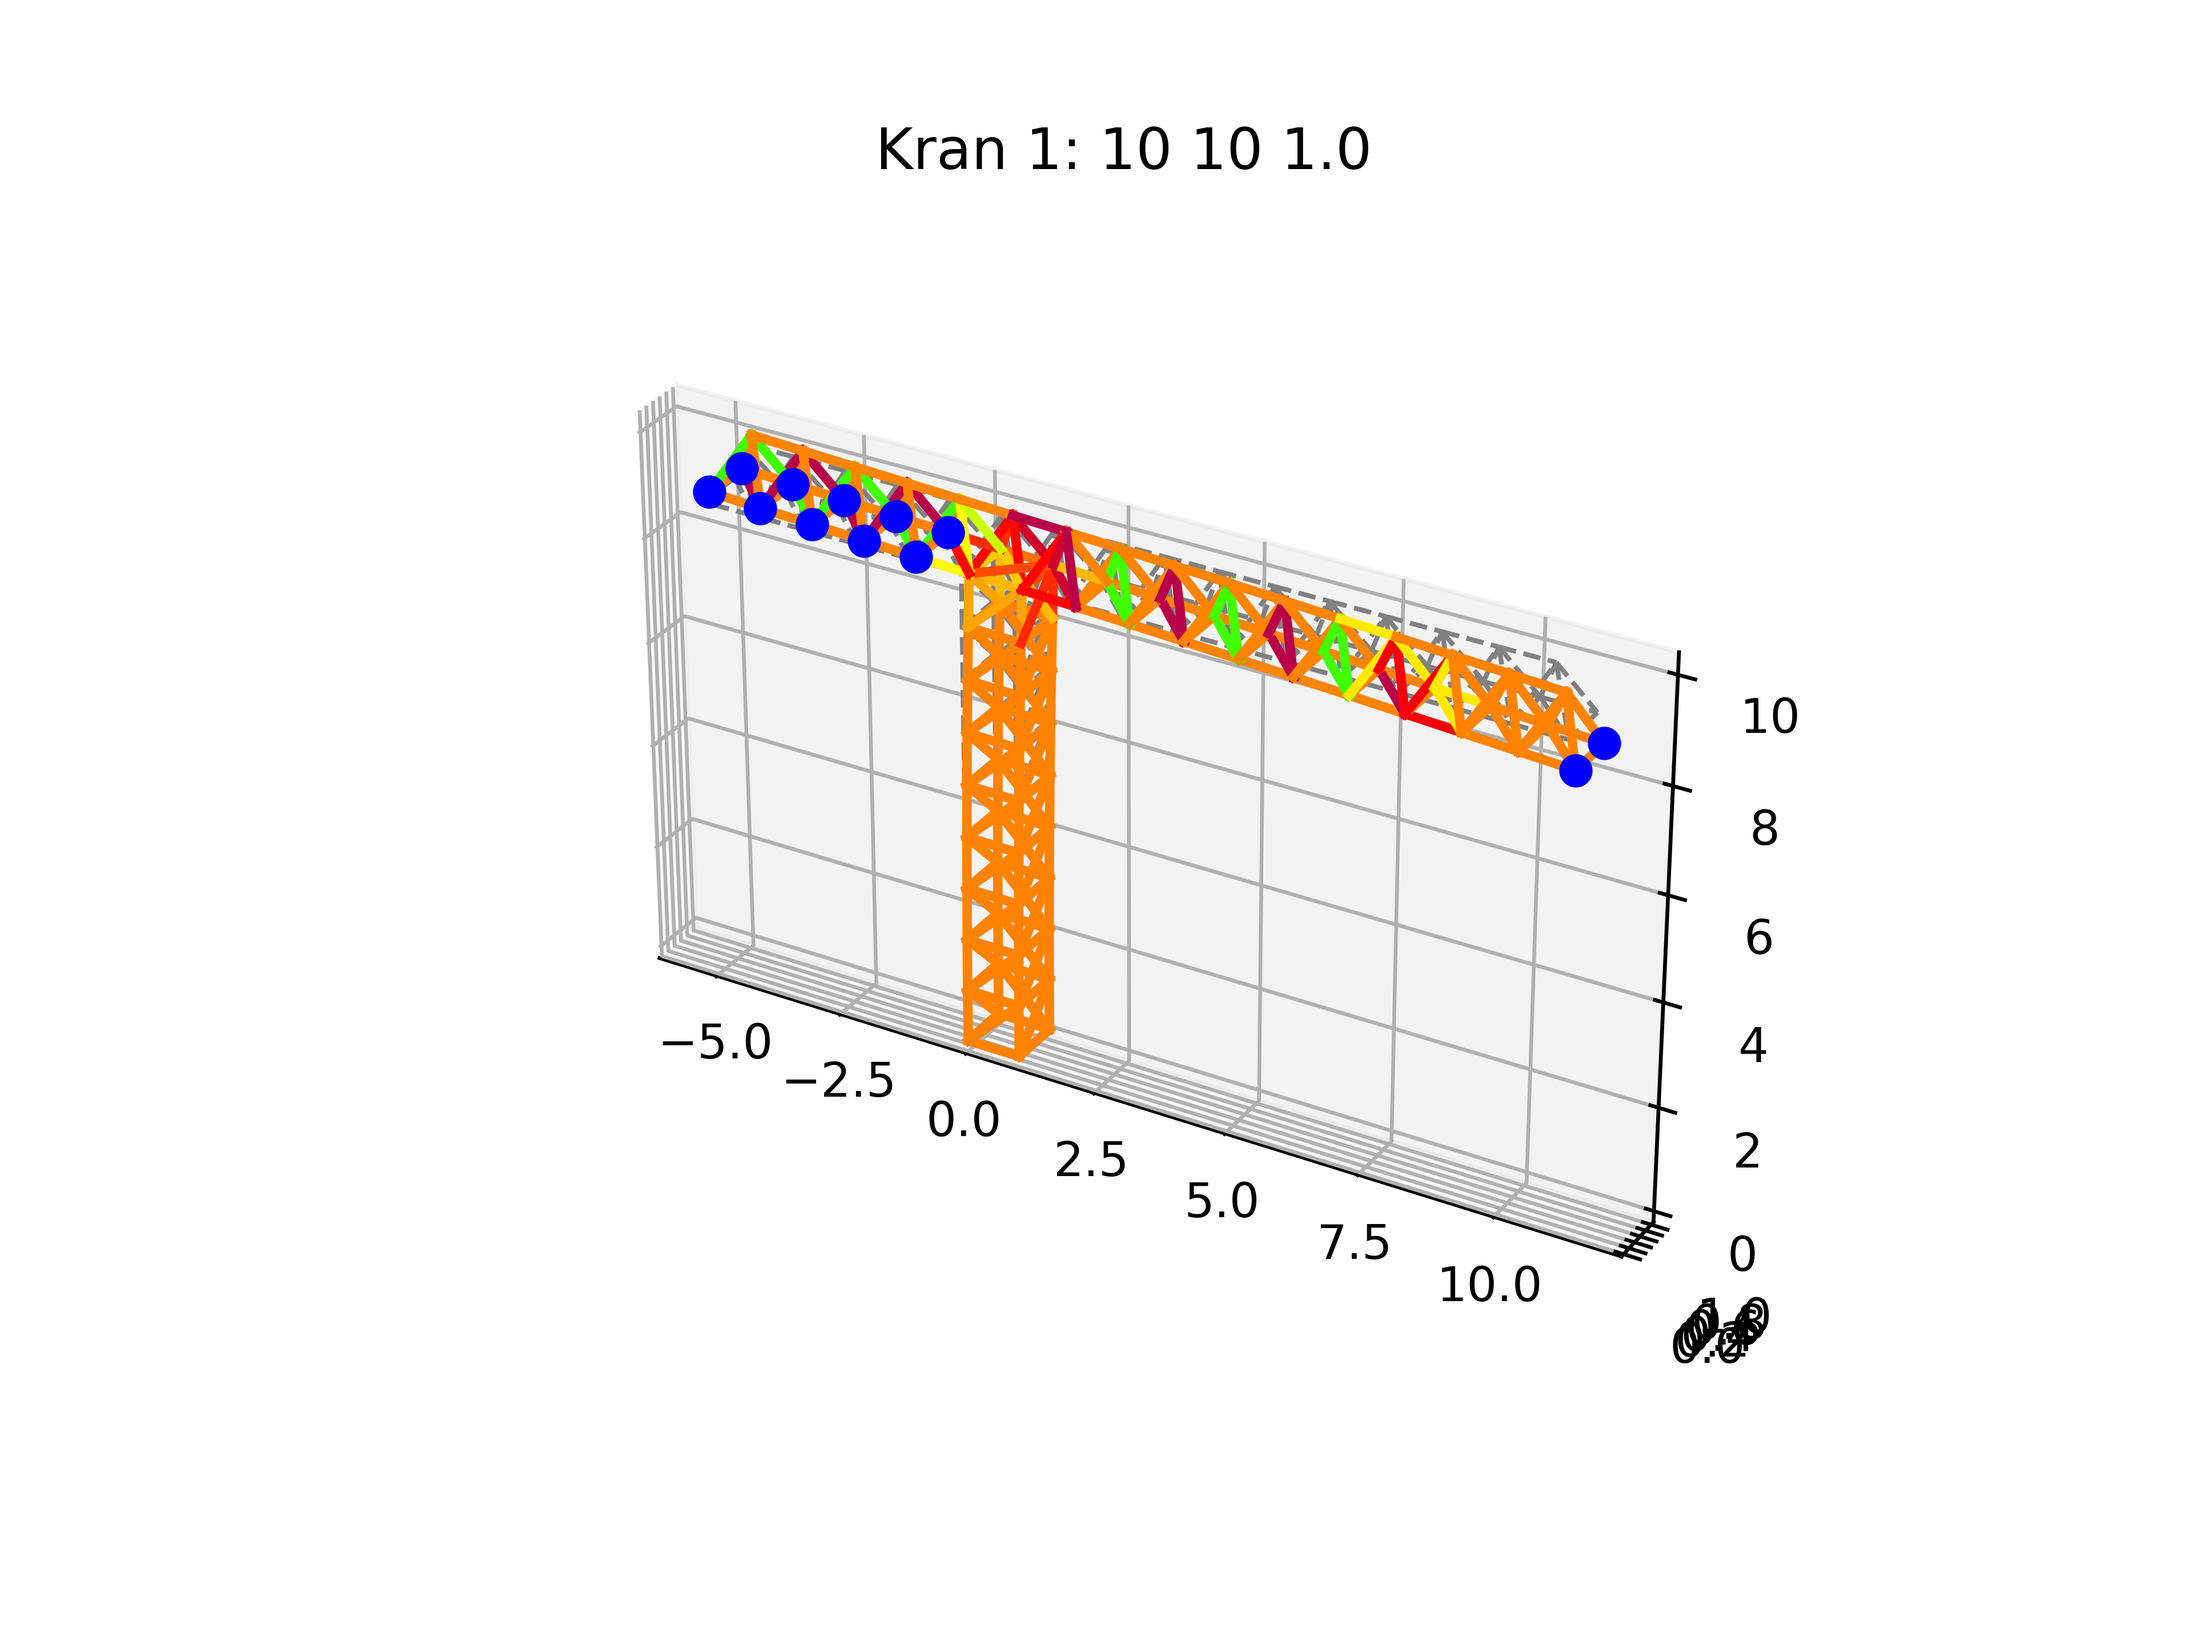
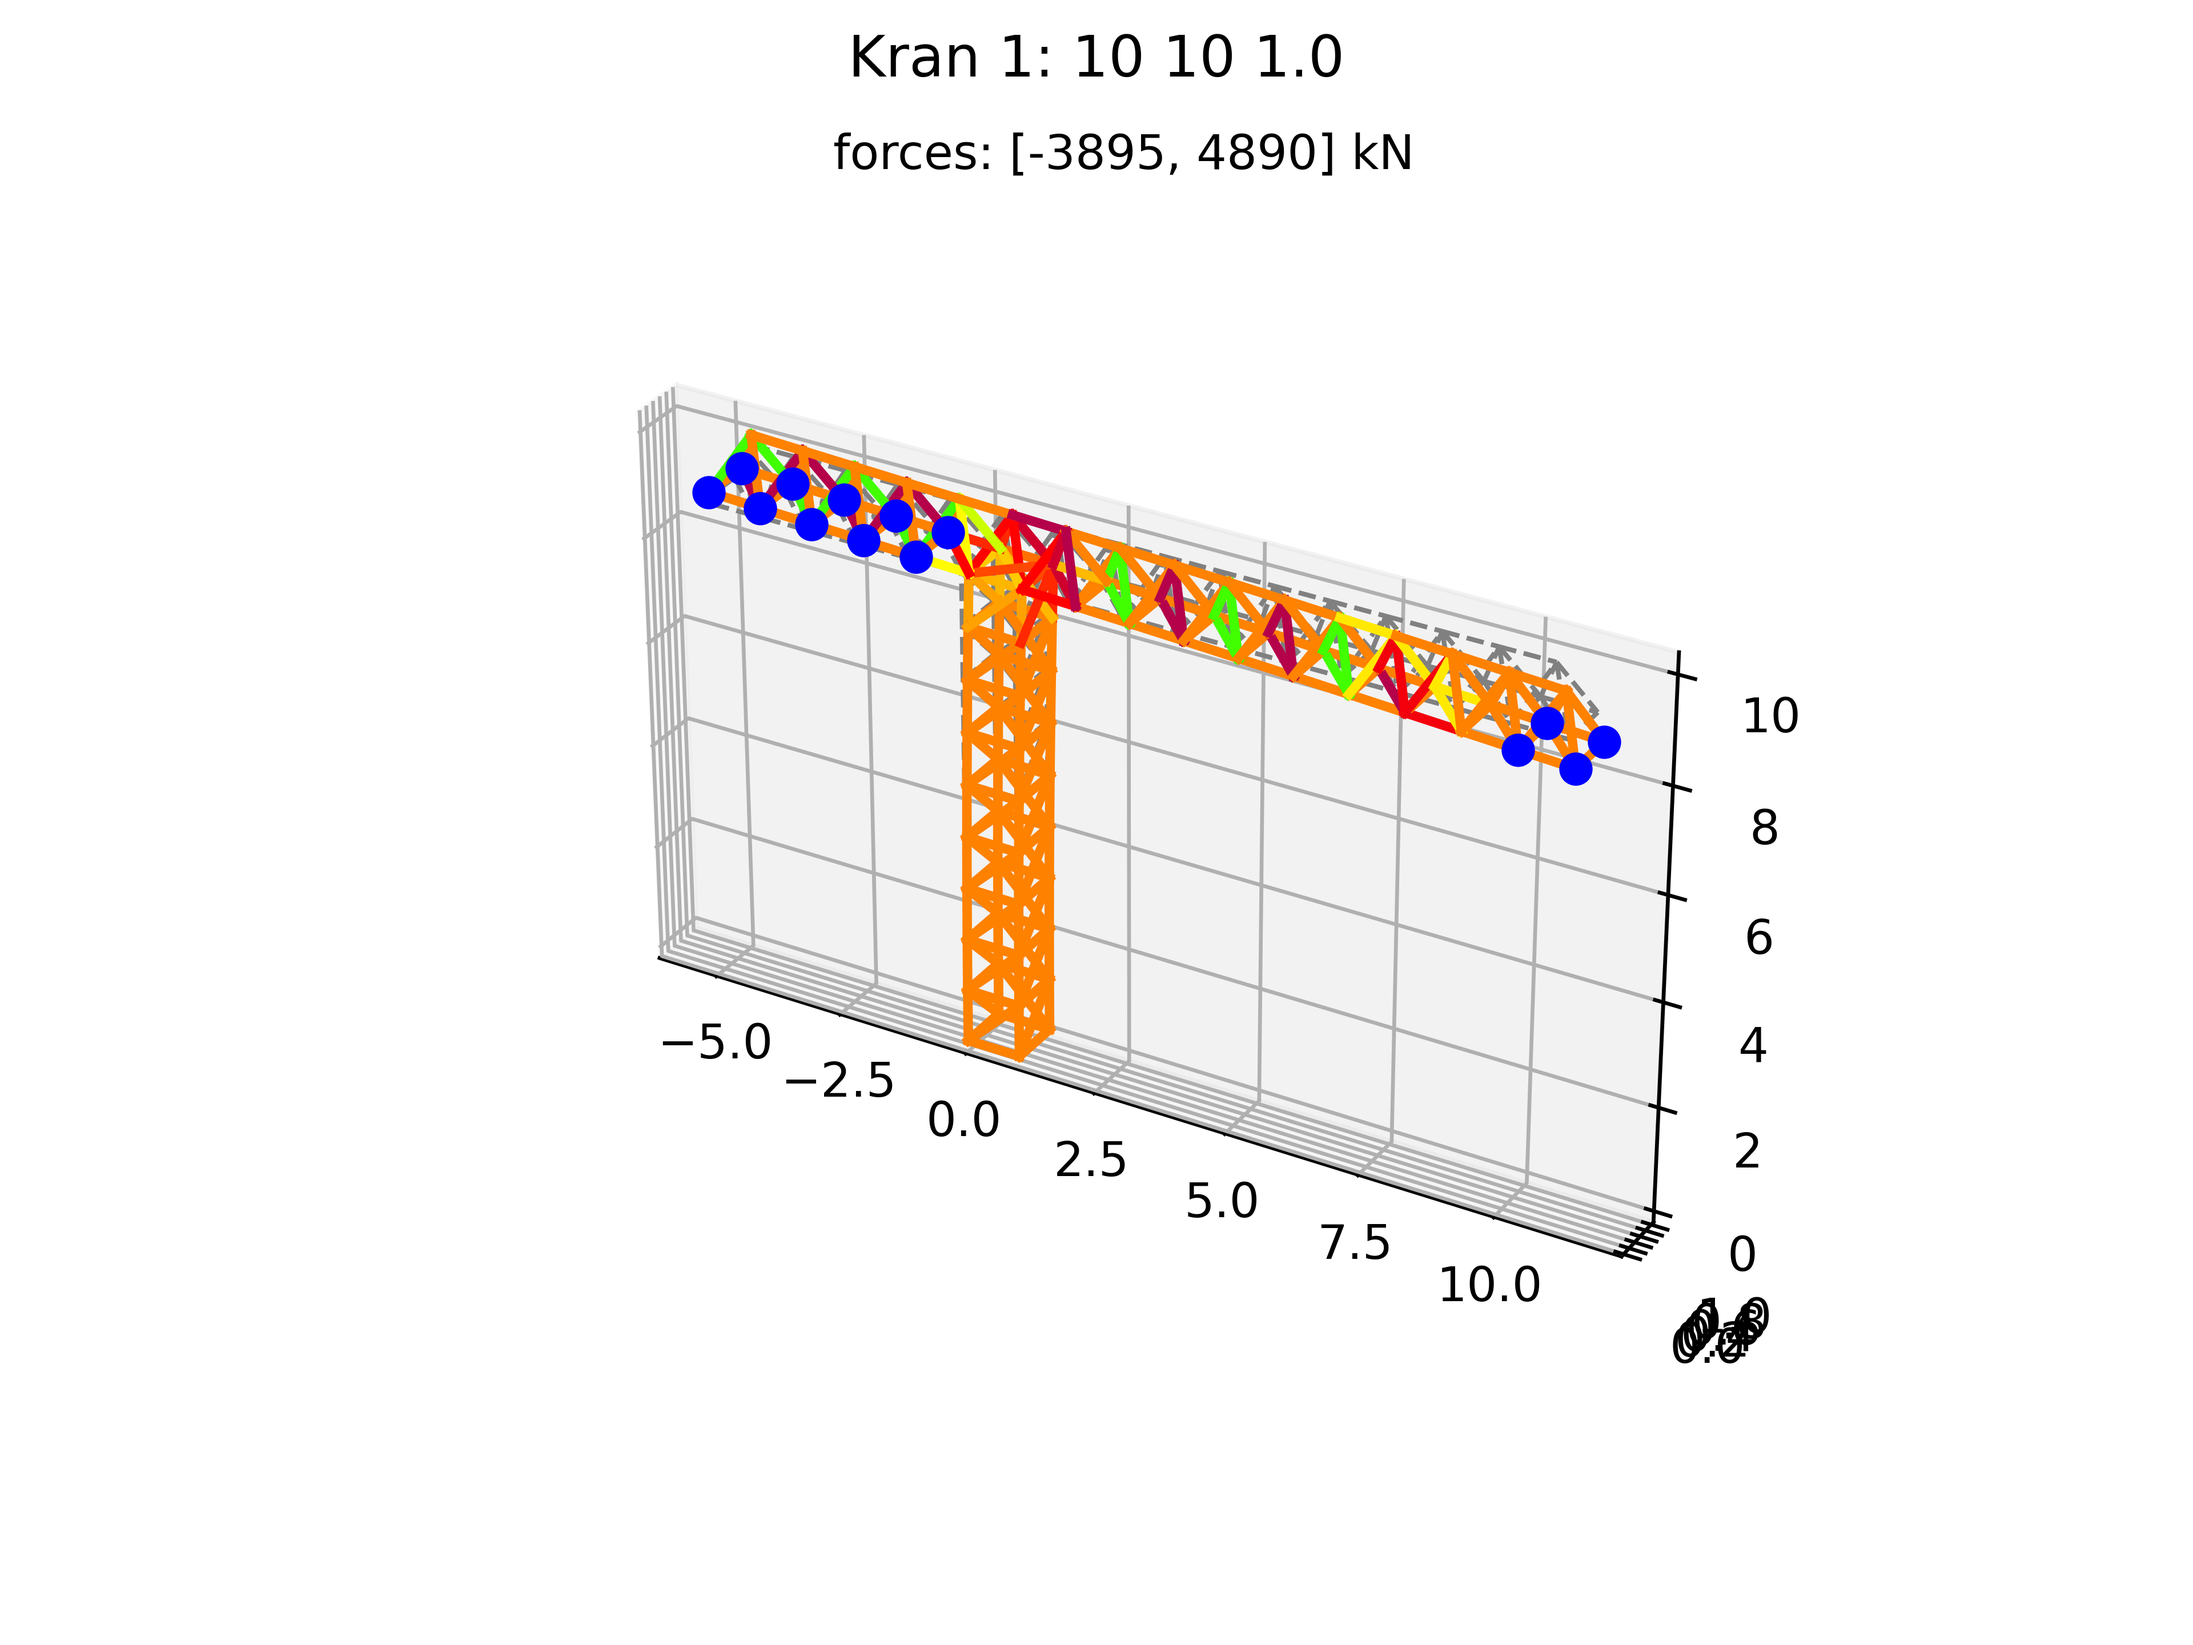
minor changes

Changed region(s): [[0.375, 0.0, 0.625, 0.125], [0.5625, 0.375, 0.7188, 0.4688], [0.5312, 0.3438, 0.5625, 0.375]]

diff --git a/crane.py b/crane.py
@@ -46,7 +46,7 @@ class crane_1(Truss):
         self.gegenausleger_pyramid(nodes, bars, offsetT)
         offsetTG = cur_offset(nodes)
         self.ausleger_pyramid(nodes, bars, offsetT, offsetTG)
-        self.tip_nodes = [-2, -3] # Knoten an der Spitze des Auslegers zur Lastanbringung
+        self.tip_nodes = [-2, -3, -5, -6] # Knoten an der Spitze des Auslegers zur Lastanbringung
 
         super().__init__(nodes, bars, A, rho, E)
 
@@ -351,7 +351,7 @@ class crane_2_1(Truss):
         offsetT = cur_offset(nodes) - 8
         self.ausleger_ver2(nodes, bars, offsetT)
         offsetA = cur_offset(nodes) + 1
-        self.tip_nodes = [offsetA-3, offsetA-4] # Knoten an der Spitze des Auslegers zur Lastanbringung
+        self.tip_nodes = [offsetA-3, offsetA-4, offsetA-6, offsetA-7] # Knoten an der Spitze des Auslegers zur Lastanbringung
         self.counterweight_nodes = [] # Knoten des Gegenauslegers zur Anbringung der Gegenlast
         self.gegenausleger_ver2(nodes, bars, offsetT, offsetA)
 

diff --git a/simulation.py b/simulation.py
@@ -14,11 +14,11 @@ if __name__ == "__main__":
     A = h_b * b_b  # Querschnittsfläche der Balken in m^2
     E = 210e9  # E-Modul in Pa
     rho = 7850  # Dichte in kg/m^3
-    load = 0 # angebrachte Last in kg
+    load = 500e3 # angebrachte Last in kg
 
-    # myCrane = crane_1(tower_height, jib_length, length_segments, A, rho, E)
+    myCrane = crane_1(tower_height, jib_length, length_segments, A, rho, E)
     # myCrane = crane_2_1(10, 10, 1, A, rho, E)
-    myCrane = crane_2_2(10, 10, 1, A, rho, E)
+    # myCrane = crane_2_2(10, 10, 1, A, rho, E)
 
     nodes = myCrane.nodes
     bars = myCrane.bars

diff --git a/fem.py b/fem.py
@@ -236,9 +236,10 @@ class FEM:
             for i in self.truss.force_points:
                 self.plotPoint(dnodes[i])
 
-        plt.title(self.truss)
+        plt.suptitle(self.truss)
+        plt.title("forces: ["+str(int(np.min(self.N)/1000))+", "+str(int(np.max(self.N)/1000))+"] kN", fontsize=10)
         # Graphik speichern
-        plt.savefig('figures/fig3', dpi=600)
+        plt.savefig('figures/fig1', dpi=600)
         plt.show()
         
     
